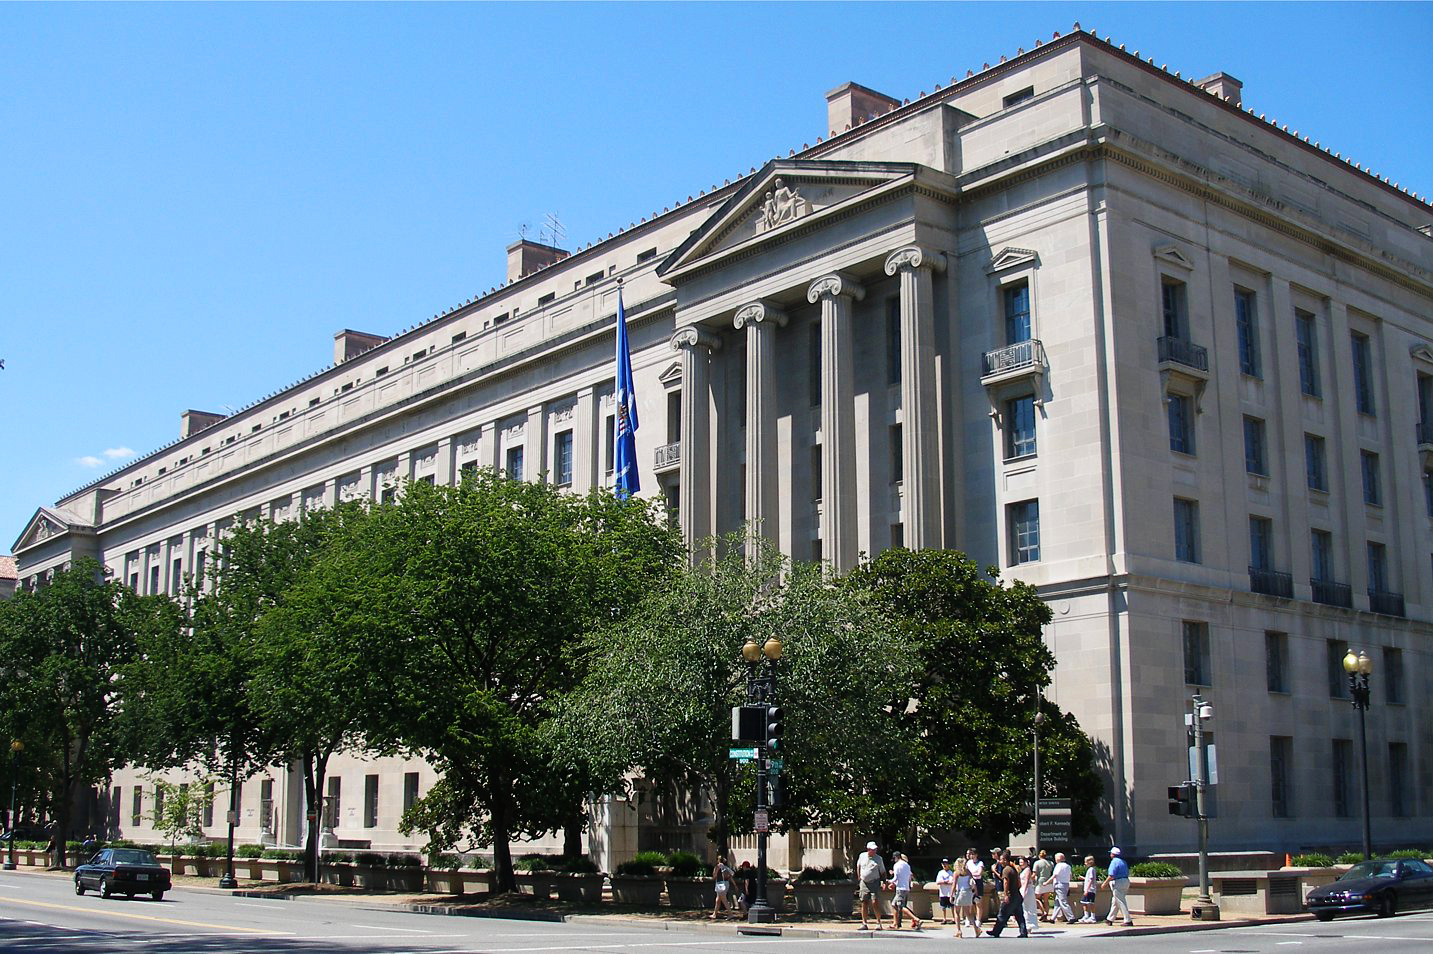
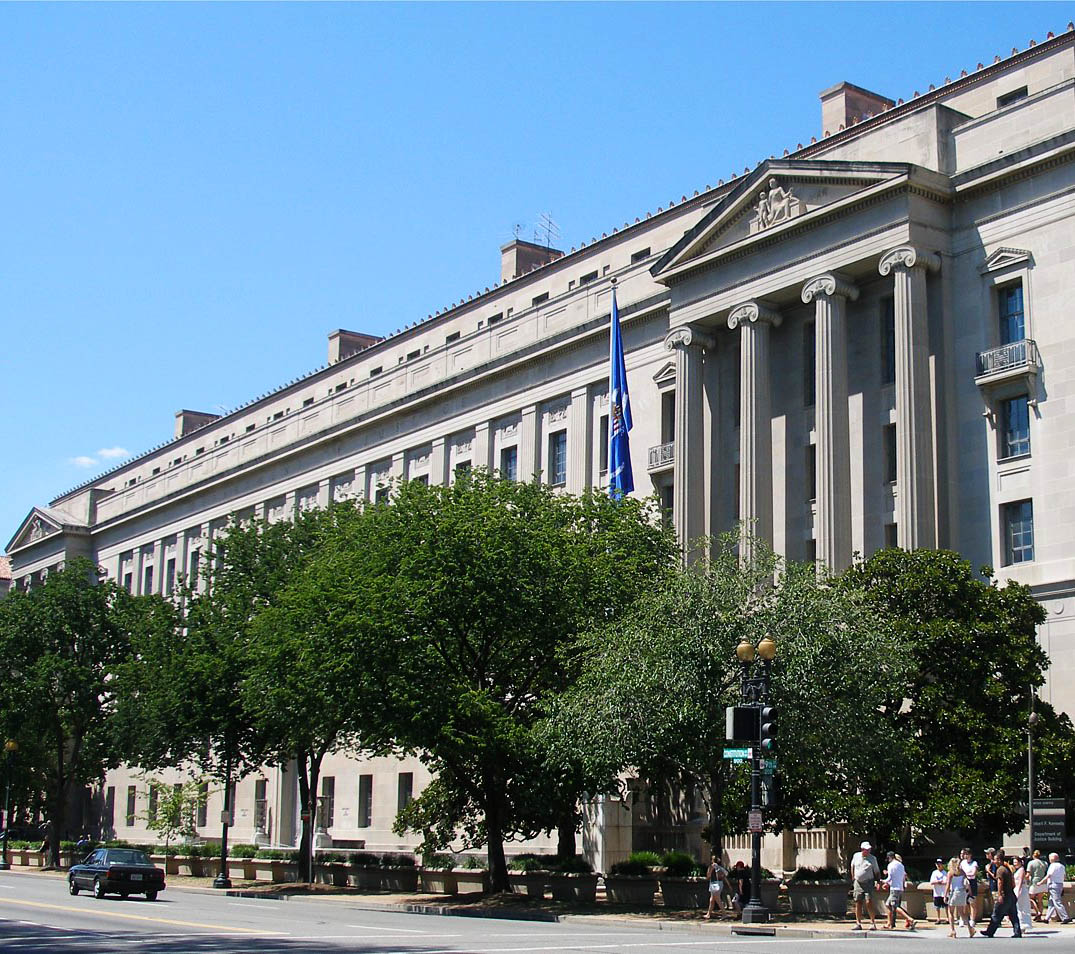
add and position new image

diff --git a/www.foia.gov/_sass/modules/_hero_unit.scss b/www.foia.gov/_sass/modules/_hero_unit.scss
@@ -4,6 +4,10 @@ $hero-h2: 2.2rem;
 .usa-hero {
   background-image: none;
   padding: 0;
+  background-position: center top;
+  @media screen and (min-width: $large-screen) {
+    background-position: center top -14rem;
+  }
   @media screen and (min-width: $small-screen) {
     background-image: url('../img/Usdepartmentofjustice-1.jpg');
     padding-top: 3rem;
